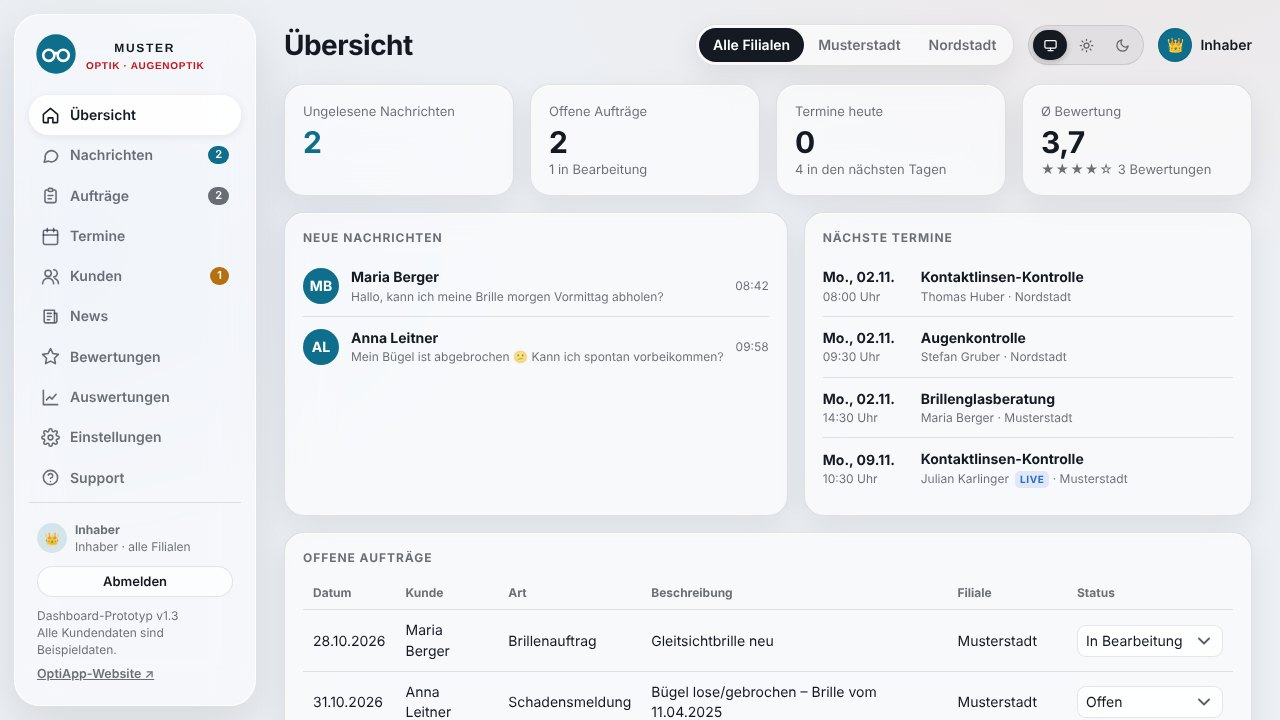
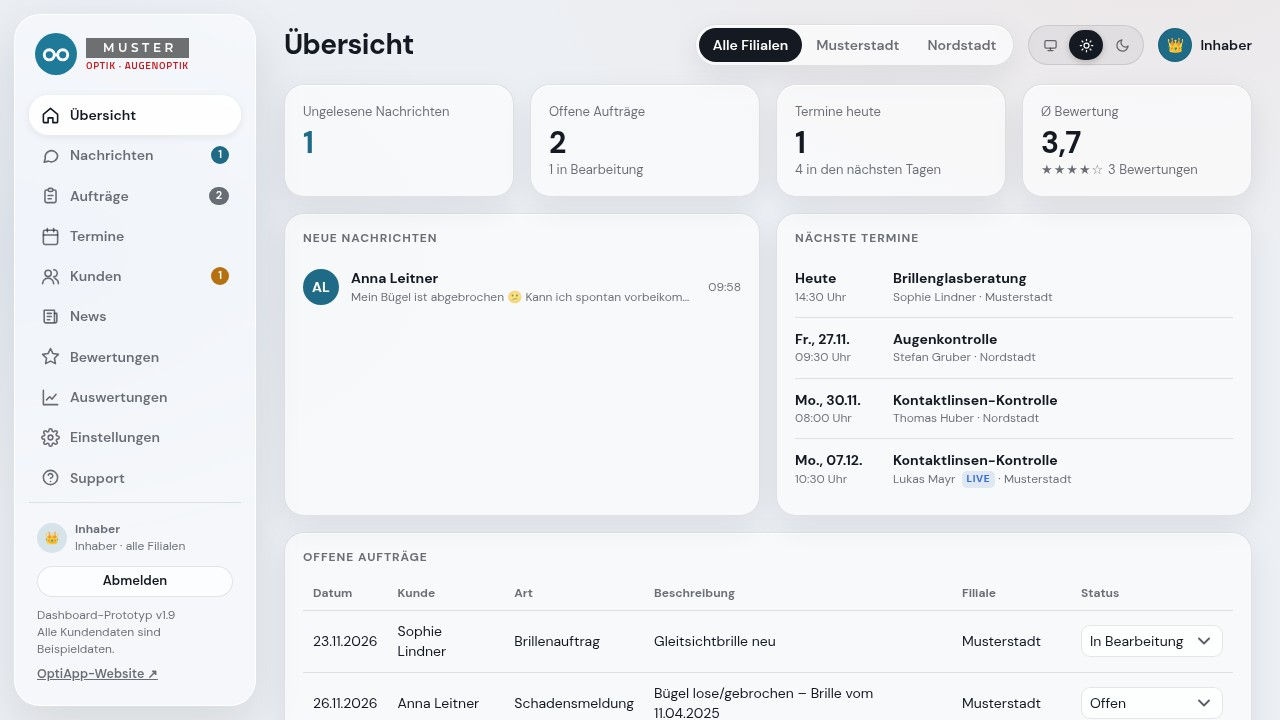
App v1.18, Dashboard v1.9, Verwaltung v0.11, Website v0.6: neue Beispielnamen, Dashboard schneller
- Beispielkunden „Lukas Mayr“ (Tochter Lena Mayr) und „Sophie Lindner“ mit neuen
  erfundenen Kontaktdaten; neue Speicherschlüssel, alte Demo-Stände werden verworfen
- Dashboard: Glasflächen im Inhaltsbereich ohne Weichzeichner (Tab-Wechsel flüssiger)
- Website: Screenshots mit den neuen Beispielnamen

diff --git a/dashboard/index.html b/dashboard/index.html
@@ -315,7 +315,7 @@ html[data-gt="light"] .modal{background:rgba(20,25,34,.3)!important}
     <div id="navList"></div>
     <div class="side-foot"><div class="sideuser"><span class="av" id="sideAv" style="width:30px;height:30px;border-radius:50%;background:var(--accent-soft);color:var(--accent);display:grid;place-items:center;font-weight:700">T</span><div class="grow"><b id="sideName">–</b><div id="sideRole" class="small"></div></div></div>
       <button class="btn ghost sm" style="margin-top:10px;width:100%" onclick="logout()">Abmelden</button>
-      <div style="margin-top:10px">Dashboard-Prototyp v1.7<br>Alle Kundendaten sind Beispieldaten.<br><a class="weblink" href="../website/" target="_blank" rel="noopener">OptiApp-Website ↗</a></div></div>
+      <div style="margin-top:10px">Dashboard-Prototyp v1.9<br>Alle Kundendaten sind Beispieldaten.<br><a class="weblink" href="../website/" target="_blank" rel="noopener">OptiApp-Website ↗</a></div></div>
   </aside>
   <main>
     <div class="top">
@@ -324,7 +324,7 @@ html[data-gt="light"] .modal{background:rgba(20,25,34,.3)!important}
       <span class="gt-mount" title="Darstellung"></span>
       <div class="user" id="userBox"></div>
     </div>
-    <div class="demo">🔗 <b>Demo-Verbindung:</b> Der Kunde <b>Julian Karlinger</b> <span class="live">Live</span> ist mit der Kunden-App verbunden. Öffnen Sie die <a href="../" target="_blank">Kunden-App</a> im selben Browser in einem zweiten Tab – Nachrichten und Statusmeldungen kommen dort sofort an.</div>
+    <div class="demo">🔗 <b>Demo-Verbindung:</b> Der Kunde <b>Lukas Mayr</b> <span class="live">Live</span> ist mit der Kunden-App verbunden. Öffnen Sie die <a href="../" target="_blank">Kunden-App</a> im selben Browser in einem zweiten Tab – Nachrichten und Statusmeldungen kommen dort sofort an.</div>
     <div id="view"></div>
   </main>
 </div>
@@ -362,7 +362,7 @@ const today=()=>new Date().toISOString().slice(0,10);
 // Gesetzliche Feiertage Österreich (nächste Monate) – im Dashboard änderbar
 const HOLIDAYS=[{date:'2026-10-26',label:'Nationalfeiertag'},{date:'2026-11-01',label:'Allerheiligen'},{date:'2026-12-25',label:'Christtag'},{date:'2026-12-26',label:'Stefanitag'},{date:'2027-01-01',label:'Neujahr'},{date:'2027-01-06',label:'Heilige Drei Könige'}];
 const DEFAULT = {
-  profile:{kdnr:'104772',birth:'1988-05-12',first:'Julian',last:'Karlinger',mail:'julian.karlinger@example.at',phone:'+43 660 123 4567',addr:'Musterweg 3, 4320 Perg'},
+  profile:{kdnr:'104772',birth:'1985-09-23',first:'Lukas',last:'Mayr',mail:'lukas.mayr@example.at',phone:'+43 660 123 4567',addr:'Musterweg 3, 4320 Perg'},
   store:null,
   notif:{chat:true,checkup:true,reminder:true,appt:true,review:true,offers:false},
   ui:{theme:'system',fs:1,hc:false},
@@ -383,7 +383,7 @@ const DEFAULT = {
     R:{bc:'8,5',dia:'14,3',sph:'-2,00',cyl:'–',ax:'–',add:'–'},L:{bc:'8,5',dia:'14,3',sph:'-2,25',cyl:'–',ax:'–',add:'–'},
     price:64.90,stock:{R:23,L:23,updated:addDays(0)}},
   who:'me',
-  family:[{id:'k1',first:'Lena',last:'Karlinger',relation:'Tochter',birth:'2017',lenses:null,
+  family:[{id:'k1',first:'Lena',last:'Mayr',relation:'Tochter',birth:'2017',lenses:null,
     glasses:[{id:'k1g1',date:'2026-07-08',note:'Myopie-Management-Gläser',
       R:{sph:'-1,25',cyl:'–',ax:'–',add:'–'},L:{sph:'-1,50',cyl:'-0,25',ax:'170',add:'–'},pd:'28,0 / 28,5',
       kasko:true,
@@ -428,7 +428,9 @@ const normStatus=s=>({'Eingegangen':'Offen','In Prüfung':'Offen','Wird bereitge
 
 
 /* ======== Speicher ======== */
-const KEY='glass-falkner-v10', DKEY='glass-falkner-dash-v1';
+const KEY='glass-falkner-v11', DKEY='glass-falkner-dash-v2';
+try{localStorage.removeItem('glass-falkner-v10');localStorage.removeItem('glass-falkner-dash-v1')}catch(e){} /* 26.11.2026: Demo-Daten mit neuen Beispielnamen – alte Speicherstände verwerfen */
+
 let S;
 function loadS(){let x=null;try{x=JSON.parse(localStorage.getItem(KEY))}catch(e){}
   if(!x){x=JSON.parse(JSON.stringify(DEFAULT));x.store='perg';try{localStorage.setItem(KEY,JSON.stringify(x))}catch(e){}}
@@ -447,7 +449,7 @@ function applyBrand(){const b=S.brand||{},r=document.documentElement,im=document
 
 const ts=(dayOff,h,m)=>{const d=new Date();d.setDate(d.getDate()+dayOff);d.setHours(h,m||0,0,0);return d.toISOString()};
 const DDEFAULT={customers:[
-  {id:'c2',birth:'1961-03-08',since:'2009-05-20',name:'Maria Berger',store:'perg',phone:'+43 664 210 3344',mail:'maria.berger@example.at',
+  {id:'c2',birth:'1964-07-19',since:'2009-05-20',name:'Sophie Lindner',store:'perg',phone:'+43 664 123 9876',mail:'sophie.lindner@example.at',
    chat:[{id:'d1',from:'me',text:'Hallo, kann ich meine Brille morgen Vormittag abholen?',ts:ts(0,8,42)}],
    tickets:[{id:'dt1',kind:'Brillenauftrag',title:'Gleitsichtbrille neu',status:'In Arbeit',date:addDays(-3)}],
    appts:[{id:'da1',type:'Brillenglasberatung',date:workday(0),time:'14:30',store:'perg'}],
@@ -474,8 +476,8 @@ let D;
 try{D=JSON.parse(localStorage.getItem(DKEY))}catch(e){}
 if(!D)D=JSON.parse(JSON.stringify(DDEFAULT));
 function saveD(){try{localStorage.setItem(DKEY,JSON.stringify(D))}catch(e){try{D=JSON.parse(localStorage.getItem(DKEY))||D}catch(x){}}}
-const DEMO_BIRTH={'c2':['1961-03-08','2009-05-20'],'c3':['1994-11-23','2021-02-11'],'c4':['2003-07-30','2024-08-02'],'c5':['1976-01-17','2015-10-06']};
-const DEMO_KVP={c2:{addr:'Linzer Straße 12, 4320 Perg',kvp:{mail:'maria.berger@example.at',phone:'+43 664 210 3344',addr:'Linzer Straße 12, 4320 Perg'}},c3:{addr:'Dorfplatz 4, 4371 Dimbach',kvp:{mail:'t.huber@example.at',phone:'+43 680 555 1020',addr:'Dorfplatz 4, 4371 Dimbach'}},c4:{addr:'Mühlgasse 7, 4320 Perg',kvp:{mail:'anna.leitner@example.at',phone:'+43 676 555 0101',addr:'Mühlgasse 7, 4320 Perg'},changes:[{id:'pcdemo4',field:'phone',old:'+43 676 555 0101',new:'+43 676 908 7711',ts:new Date(Date.now()-2*864e5).toISOString()}]},c5:{addr:'Kirchenweg 2, 4371 Dimbach',kvp:{mail:'s.gruber@example.at',phone:'+43 650 300 4422',addr:'Kirchenweg 2, 4371 Dimbach'}}};
+const DEMO_BIRTH={'c2':['1964-07-19','2009-05-20'],'c3':['1994-11-23','2021-02-11'],'c4':['2003-07-30','2024-08-02'],'c5':['1976-01-17','2015-10-06']};
+const DEMO_KVP={c2:{addr:'Beispielgasse 12, 4320 Perg',kvp:{mail:'sophie.lindner@example.at',phone:'+43 664 123 9876',addr:'Beispielgasse 12, 4320 Perg'}},c3:{addr:'Dorfplatz 4, 4371 Dimbach',kvp:{mail:'t.huber@example.at',phone:'+43 680 555 1020',addr:'Dorfplatz 4, 4371 Dimbach'}},c4:{addr:'Mühlgasse 7, 4320 Perg',kvp:{mail:'anna.leitner@example.at',phone:'+43 676 555 0101',addr:'Mühlgasse 7, 4320 Perg'},changes:[{id:'pcdemo4',field:'phone',old:'+43 676 555 0101',new:'+43 676 908 7711',ts:new Date(Date.now()-2*864e5).toISOString()}]},c5:{addr:'Kirchenweg 2, 4371 Dimbach',kvp:{mail:'s.gruber@example.at',phone:'+43 650 300 4422',addr:'Kirchenweg 2, 4371 Dimbach'}}};
 D.customers.forEach((c,i)=>{const dk=DEMO_KVP[c.id];if(dk){if(!c.addr)c.addr=dk.addr;if(!c.kvp)c.kvp=dk.kvp;if(!c.changes&&dk.changes)c.changes=dk.changes}if(!c.kdnr)c.kdnr=String(310400+i*37);if(DEMO_BIRTH[c.id]){if(!c.birth)c.birth=DEMO_BIRTH[c.id][0];if(!c.since)c.since=DEMO_BIRTH[c.id][1]}if(!c.since)c.since=(c.invited||new Date().toISOString().slice(0,10));c.tickets.forEach(x=>x.status=normStatus(x.status))});
 const TPL_DEFAULT=[
   ['✅','Brille abholbereit','Ihre Brille ist bereit zur Abholung','Sie können Ihre Brille ab sofort in der Filiale {f} abholen.','hours'],
@@ -684,7 +686,7 @@ window.addEventListener('storage',e=>{if(e.key!==SKEY||!ME)return;
   const t2=document.getElementById('supReply');if(t2&&keep!==null){t2.value=keep;if(foc)t2.focus()}});
 
 /* ===== Kontaktdaten: Änderungen aus der App und Abgleich mit dem Kundenverwaltungsprogramm ===== */
-const KVP_LIVE_DEFAULT={mail:'julian.karlinger@example.at',phone:'+43 660 123 4567',addr:'Musterweg 3, 4320 Perg'};
+const KVP_LIVE_DEFAULT={mail:'lukas.mayr@example.at',phone:'+43 660 123 4567',addr:'Musterweg 3, 4320 Perg'};
 const C_LABEL={mail:'E-Mail',phone:'Telefon',addr:'Adresse'};
 function kvpOf(c){if(!c||c.parent)return null;if(c.id==='live')return Object.assign({},KVP_LIVE_DEFAULT,D.kvpLive||{});return c.kvp||null}
 const appContact=c=>({mail:c.mail||'',phone:c.phone||'',addr:c.addr||''});
@@ -1438,6 +1440,14 @@ html[data-gt] body select:not([multiple]){background-repeat:no-repeat!important;
   table.t td[data-label=""]::before{content:none}
   table.t td[data-label=""]{justify-content:flex-end}
 }
+</style>
+<!-- ===== Performance A1 (v1.8, 26.11.2026): Inhaltsflächen ohne Weichzeichner =====
+     Im Inhaltsbereich (#view) liegt hinter den Karten nur der fast einfarbige Hintergrund –
+     der Weichzeichner war dort kaum sichtbar, kostete beim Tab-Wechsel aber die meiste Rechenzeit.
+     Farben, Rand und Schatten bleiben gleich. Seitenleiste, Handy-Menüleiste, Dialoge und
+     Dropdown-Listen behalten ihr Glas (Schritte A2/A3 im Performance-Plan). -->
+<style id="perf-a1">
+#view :is(.card,.seg,.demo,.msg.me,.msg.status,.day-sep,.tpl,.appt,.inbox,select){-webkit-backdrop-filter:none!important;backdrop-filter:none!important}
 </style>
 <script>
 function navToggle(o){if(o===undefined)o=!document.body.classList.contains('nav-open');document.body.classList.toggle('nav-open',!!o);var b=document.getElementById('mbarBtn');if(b){b.setAttribute('aria-expanded',o?'true':'false');b.setAttribute('aria-label',o?'Menü schließen':'Menü öffnen')}}

diff --git a/index.html b/index.html
@@ -4,7 +4,7 @@
 <meta charset="UTF-8">
 <script>/* Runde 4: Hell/Dunkel aus den App-Einstellungen, Standard Systemeinstellung */
 (function(){var mq=matchMedia('(prefers-color-scheme: dark)');
-window.gtApply=function(t){if(t===undefined){try{t=((JSON.parse(localStorage.getItem('glass-falkner-v10'))||{}).ui||{}).theme}catch(e){}}
+window.gtApply=function(t){if(t===undefined){try{t=((JSON.parse(localStorage.getItem('glass-falkner-v11'))||{}).ui||{}).theme}catch(e){}}
  window.__gtT=t||'system';var r=(__gtT==='light'||__gtT==='dark')?__gtT:(mq.matches?'dark':'light');
  document.documentElement.setAttribute('data-gt',r);var m=document.querySelector('meta[name="theme-color"]');if(m)m.setAttribute('content',r==='dark'?'#12151B':'#ECEFF3')};
 mq.addEventListener('change',function(){gtApply(window.__gtT)});gtApply();})();
@@ -699,7 +699,7 @@ html[data-gt="light"] .scrim{background:rgba(20,25,34,.35)!important}
         <button class="list-item" style="width:100%;text-align:left" onclick="demoPush()"><div class="grow">Demo: Bewertungs-Benachrichtigung zeigen</div></button>
         <button class="list-item" style="width:100%;text-align:left;color:var(--danger)" onclick="resetDemo()"><div class="grow">Demo-Daten zurücksetzen</div></button>
       </div>
-      <p class="muted-s" style="text-align:center;margin-top:20px">Prototyp v1.17 · Kundendaten sind Beispieldaten</p>
+      <p class="muted-s" style="text-align:center;margin-top:20px">Prototyp v1.18 · Kundendaten sind Beispieldaten</p>
     </section>
   </main>
 
@@ -763,7 +763,7 @@ const today=()=>new Date().toISOString().slice(0,10);
 // Gesetzliche Feiertage Österreich (nächste Monate) – im Dashboard änderbar
 const HOLIDAYS=[{date:'2026-10-26',label:'Nationalfeiertag'},{date:'2026-11-01',label:'Allerheiligen'},{date:'2026-12-25',label:'Christtag'},{date:'2026-12-26',label:'Stefanitag'},{date:'2027-01-01',label:'Neujahr'},{date:'2027-01-06',label:'Heilige Drei Könige'}];
 const DEFAULT = {
-  profile:{kdnr:'104772',birth:'1988-05-12',first:'Julian',last:'Karlinger',mail:'julian.karlinger@example.at',phone:'+43 660 123 4567',addr:'Musterweg 3, 4320 Perg'},
+  profile:{kdnr:'104772',birth:'1985-09-23',first:'Lukas',last:'Mayr',mail:'lukas.mayr@example.at',phone:'+43 660 123 4567',addr:'Musterweg 3, 4320 Perg'},
   store:null,
   notif:{chat:true,checkup:true,reminder:true,appt:true,review:true,offers:false},
   ui:{theme:'system',fs:1,hc:false},
@@ -784,7 +784,7 @@ const DEFAULT = {
     R:{bc:'8,5',dia:'14,3',sph:'-2,00',cyl:'–',ax:'–',add:'–'},L:{bc:'8,5',dia:'14,3',sph:'-2,25',cyl:'–',ax:'–',add:'–'},
     price:64.90,stock:{R:23,L:23,updated:addDays(0)}},
   who:'me',
-  family:[{id:'k1',first:'Lena',last:'Karlinger',relation:'Tochter',birth:'2017',lenses:null,
+  family:[{id:'k1',first:'Lena',last:'Mayr',relation:'Tochter',birth:'2017',lenses:null,
     glasses:[{id:'k1g1',date:'2026-07-08',note:'Myopie-Management-Gläser',
       R:{sph:'-1,25',cyl:'–',ax:'–',add:'–'},L:{sph:'-1,50',cyl:'-0,25',ax:'170',add:'–'},pd:'28,0 / 28,5',
       kasko:true,
@@ -827,7 +827,8 @@ const kaskoLabel=m=>m%12===0?(m/12)+(m===12?' Jahr':' Jahre'):m+' Monate';
 // Auftragsstatus: nur noch Offen / In Bearbeitung / Abgeschlossen
 const normStatus=s=>({'Eingegangen':'Offen','In Prüfung':'Offen','Wird bereitgelegt':'Offen','Versand vorbereitet':'Offen','In Arbeit':'In Bearbeitung','Abholbereit':'Abgeschlossen','Versendet':'Abgeschlossen'})[s]||s;
 let S;
-try{S=JSON.parse(localStorage.getItem('glass-falkner-v10'))}catch(e){}
+try{localStorage.removeItem('glass-falkner-v10');localStorage.removeItem('glass-falkner-dash-v1')}catch(e){} /* 26.11.2026: Demo-Daten mit neuen Beispielnamen – alte Speicherstände verwerfen */
+try{S=JSON.parse(localStorage.getItem('glass-falkner-v11'))}catch(e){}
 const FIRST_RUN=!S;
 if(!S) S=JSON.parse(JSON.stringify(DEFAULT));
 S.ui=S.ui||{theme:'system',fs:1,hc:false}; S.storeCfg=S.storeCfg||{}; (S.tickets||[]).forEach(t=>t.status=normStatus(t.status));
@@ -850,7 +851,7 @@ function applyUI(){
 }
 applyStoreCfg();
 let quotaWarned=false;
-function persist(){try{localStorage.setItem('glass-falkner-v10',JSON.stringify(S))}catch(e){if(!quotaWarned&&typeof toast==='function'){quotaWarned=true;toast('Speicher des Prototyps ist voll – ältere Fotos bitte löschen')}}}
+function persist(){try{localStorage.setItem('glass-falkner-v11',JSON.stringify(S))}catch(e){if(!quotaWarned&&typeof toast==='function'){quotaWarned=true;toast('Speicher des Prototyps ist voll – ältere Fotos bitte löschen')}}}
 
 const fmtDate=(iso,opt={day:'2-digit',month:'2-digit',year:'numeric'})=>new Date(iso+'T12:00').toLocaleDateString('de-AT',opt);
 const eur=v=>v.toLocaleString('de-AT',{style:'currency',currency:'EUR'});
@@ -1114,7 +1115,7 @@ function saveProfile(){
   persist();render();toast('Profil gespeichert');
 }
 function cancelAppt(id){if(confirm('Termin wirklich stornieren?')){S.appts=S.appts.filter(a=>a.id!==id);persist();render();toast('Termin storniert')}}
-function resetDemo(){if(confirm('Alle Demo-Daten zurücksetzen? Die App startet danach wie beim ersten Öffnen.')){try{localStorage.removeItem('glass-falkner-v10')}catch(e){};location.href=location.pathname}}
+function resetDemo(){if(confirm('Alle Demo-Daten zurücksetzen? Die App startet danach wie beim ersten Öffnen.')){try{localStorage.removeItem('glass-falkner-v11')}catch(e){};location.href=location.pathname}}
 // Brillenpass als echte PDF-Datei (ohne externe Bibliothek)
 const PDF_MAP={'€':128,'‚':130,'„':132,'…':133,'–':150,'—':151,'“':147,'”':148,'‘':145,'’':146};
 const pdfTxt=t=>[...String(t)].map(ch=>{const c=PDF_MAP[ch]||ch.charCodeAt(0);return c<256?String.fromCharCode(c):'?'}).join('').replace(/[\\()]/g,m=>'\\'+m);
@@ -1194,7 +1195,7 @@ function demoPush(){
 const dashAlive=()=>{try{return Date.now()-(+localStorage.getItem('glass-falkner-dash-alive')||0)<15000}catch(e){return false}};
 // Live-Verbindung zum Dashboard (gleicher Browser): Änderungen sofort übernehmen
 window.addEventListener('storage',e=>{
-  if(e.key!=='glass-falkner-v10'||!e.newValue)return;
+  if(e.key!=='glass-falkner-v11'||!e.newValue)return;
   let n;try{n=JSON.parse(e.newValue)}catch(x){return}
   const before=new Set(S.chat.map(m=>m.id)); S=n; S.ui=S.ui||{theme:'system',fs:1,hc:false};
   const fresh=S.chat.filter(m=>!before.has(m.id)&&m.from!=='me');
@@ -1700,7 +1701,7 @@ function onbRender(){
   if(onb.step===0) h=`<div class="hero-logo"><img src="${logo}" alt=""><div class="wordmark" style="align-items:center"><span class="wm-top" style="font-size:18px;padding:6px 6px 6px 12px">FALKNER</span><span class="wm-sub" style="font-size:14px">OPTIK · SEHZENTRUM</span></div></div>
     <h1 style="text-align:center;font-size:28px">Willkommen!</h1><p class="sub" style="text-align:center;margin-top:6px">Brillenpass, Kontaktlinsen, Termine und der direkte Draht zu Ihrem Optiker – alles in einer App.</p>
     <button class="btn accent" style="margin-top:28px" onclick="onb.mode='existing';onb.step=1;onbRender()">Anmelden</button>
-    <button class="btn outline" style="margin-top:22px" onclick="onbDemo()">Demo-Login (Julian Karlinger)</button>
+    <button class="btn outline" style="margin-top:22px" onclick="onbDemo()">Demo-Login (Lukas Mayr)</button>
     <p class="muted-s" style="text-align:center;margin-top:10px">Meldet Sie direkt mit dem Demo-Kunden an (Kundennummer <b>104772</b>).</p>`;
   if(onb.step===1&&onb.mode==='existing') h=onbSteps(1)+`<h1 style="font-size:26px">Konto verknüpfen</h1><p class="sub">Ihre Kundennummer finden Sie auf Ihrer Rechnung oder Kundenkarte${inv?' – sie wurde aus Ihrer Einladung übernommen':''}.</p>
     <label class="f">Kundennummer</label><input class="input" id="oKd" inputmode="numeric" value="${esc(inv||'')}" placeholder="z. B. 104772">
@@ -1724,7 +1725,7 @@ function onbDemo(){S=JSON.parse(JSON.stringify(DEFAULT));onb.mode='existing';onb
 function onbLink(){
   const kd=document.getElementById('oKd').value.replace(/\s/g,''), err=document.getElementById('oErr');
   if(kd===DEFAULT.profile.kdnr){S=JSON.parse(JSON.stringify(DEFAULT));onb.step=2;onbRender();return}
-  let inv=null; try{const D=JSON.parse(localStorage.getItem('glass-falkner-dash-v1'));inv=D&&D.customers.find(c=>c.kdnr===kd)}catch(e){}
+  let inv=null; try{const D=JSON.parse(localStorage.getItem('glass-falkner-dash-v2'));inv=D&&D.customers.find(c=>c.kdnr===kd)}catch(e){}
   if(inv){S=blankAccount(inv.name.split(' ')[0],inv.name.split(' ').slice(1).join(' '),inv.mail,inv.phone,kd);S.store=inv.store;onb.step=2;onbRender();return}
   err.textContent='Diese Kundennummer kennen wir nicht. Demo: 104772 – oder ein im Dashboard eingeladener Kunde.';
 }

diff --git a/admin/index.html b/admin/index.html
@@ -283,7 +283,7 @@ html[data-gt="light"] .txt.miss{background:rgba(245,175,40,.14)!important;border
   <span class="grow"></span><span class="gt-mount" title="Darstellung"></span><a class="weblink" href="../website/" target="_blank" rel="noopener">Website ↗</a><button class="btn" onclick="logout()">Abmelden</button>
 </div></header>
 <main class="main" id="app"></main>
-<p class="ver" style="text-align:center;font-size:12px;color:var(--muted);margin:8px 0 24px">Verwaltung-Prototyp v0.10 · Alle Daten sind Beispieldaten.</p>
+<p class="ver" style="text-align:center;font-size:12px;color:var(--muted);margin:8px 0 24px">Verwaltung-Prototyp v0.11 · Alle Daten sind Beispieldaten.</p>
 <div class="modal" id="modal" hidden onclick="if(event.target===this)closeInv()"><div class="mwrap"><div class="mbar"><button class="btn" onclick="window.print()">Drucken / als PDF speichern</button><button class="btn" onclick="closeInv()">Schließen</button></div><div id="invDoc"></div></div></div>
 <script>
 /* OptiApp-Verwaltung (Prototyp). Optik Falkner = Live-Daten aus dem Prototyp im selben Browser; alle anderen Optiker sind erfundene Demo-Daten. */
@@ -312,9 +312,9 @@ const DEMO=[
 ];
 // Optik Falkner: Live aus dem Prototyp (App + Dashboard im selben Browser)
 function falkner(){
-  let S=null,D=null;try{S=JSON.parse(localStorage.getItem('glass-falkner-v10'))}catch(e){}try{D=JSON.parse(localStorage.getItem('glass-falkner-dash-v1'))}catch(e){}
+  let S=null,D=null;try{S=JSON.parse(localStorage.getItem('glass-falkner-v11'))}catch(e){}try{D=JSON.parse(localStorage.getItem('glass-falkner-dash-v2'))}catch(e){}
   const iomCust=D&&D.customers?D.customers.length:5, invited=D&&D.customers?D.customers.filter(c=>c.invited).length:0;
-  const appUsers=S&&S.profile?1+((S.family||[]).length):2; // ohne App-Daten im Browser: Demo-Konto Julian + Lena
+  const appUsers=S&&S.profile?1+((S.family||[]).length):2; // ohne App-Daten im Browser: Demo-Konto Lukas + Lena
   const since30=Date.now()-30*864e5, inRange=t=>t&&new Date(t).getTime()>=since30;
   const chats=[...((S&&S.chat)||[]).filter(m=>m.from==='me'),...((D&&D.customers)||[]).flatMap(c=>(c.chat||[]).filter(m=>m.from==='me'))].filter(m=>inRange(m.ts)).length;
   const tix=[...((S&&S.tickets)||[]),...((D&&D.customers)||[]).flatMap(c=>c.tickets||[])].filter(t=>inRange(t.date));
@@ -751,7 +751,7 @@ function renderAll(){navBadge();document.querySelectorAll('.nav button').forEach
 if(location.hash==='#rechnungen')view='rechnungen';if(location.hash==='#firma')view='firma';if(location.hash==='#kunden')view='kunden';if(location.hash==='#leads')view='leads';if(location.hash==='#nachrichten')view='support';
 const LOGO_SVG=(()=>{const l=document.querySelector('header .logo').cloneNode(true);l.setAttribute('height','34');l.style.color='#172235';return l.outerHTML})();
 load();renderAll();
-window.addEventListener('storage',e=>{if(e.key==='glass-falkner-v10'||e.key==='glass-falkner-dash-v1'){load();renderAll()}});
+window.addEventListener('storage',e=>{if(e.key==='glass-falkner-v11'||e.key==='glass-falkner-dash-v2'){load();renderAll()}});
 </script>
 <!-- ===== Runde 3: Glas-Dropdowns ===== -->
 <style>

diff --git a/website/index.html b/website/index.html
@@ -2,7 +2,7 @@
 <html lang="de">
 <head>
 <meta charset="utf-8">
-<meta name="version" content="Website v0.5">
+<meta name="version" content="Website v0.6">
 <script>/* Runde 4: Hell/Dunkel – Standard Systemeinstellung, nur auf diesem Gerät gespeichert */
 (function(){var K='glass-theme-web',mq=matchMedia('(prefers-color-scheme: dark)');
 function pref(){try{return localStorage.getItem(K)||'system'}catch(e){return 'system'}}

diff --git a/website/login.html b/website/login.html
@@ -2,7 +2,7 @@
 <html lang="de">
 <head>
 <meta charset="utf-8">
-<meta name="version" content="Website v0.5">
+<meta name="version" content="Website v0.6">
 <script>/* Runde 4: Hell/Dunkel – Standard Systemeinstellung, nur auf diesem Gerät gespeichert */
 (function(){var K='glass-theme-web',mq=matchMedia('(prefers-color-scheme: dark)');
 function pref(){try{return localStorage.getItem(K)||'system'}catch(e){return 'system'}}

diff --git a/website/rechtliches.html b/website/rechtliches.html
@@ -2,7 +2,7 @@
 <html lang="de">
 <head>
 <meta charset="utf-8">
-<meta name="version" content="Website v0.5">
+<meta name="version" content="Website v0.6">
 <script>/* Runde 4: Hell/Dunkel – Standard Systemeinstellung, nur auf diesem Gerät gespeichert */
 (function(){var K='glass-theme-web',mq=matchMedia('(prefers-color-scheme: dark)');
 function pref(){try{return localStorage.getItem(K)||'system'}catch(e){return 'system'}}
